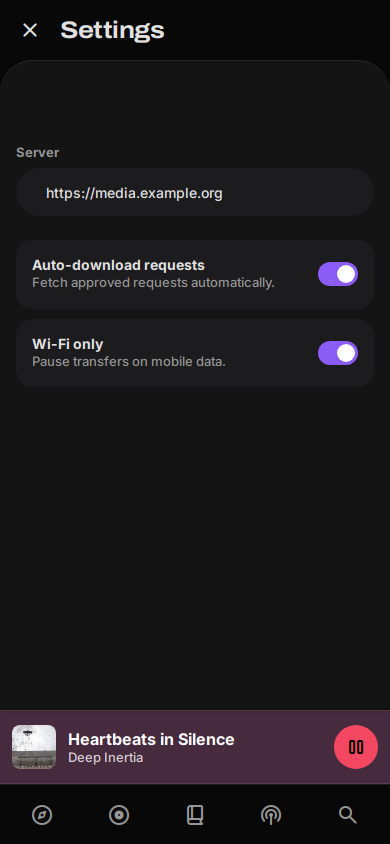
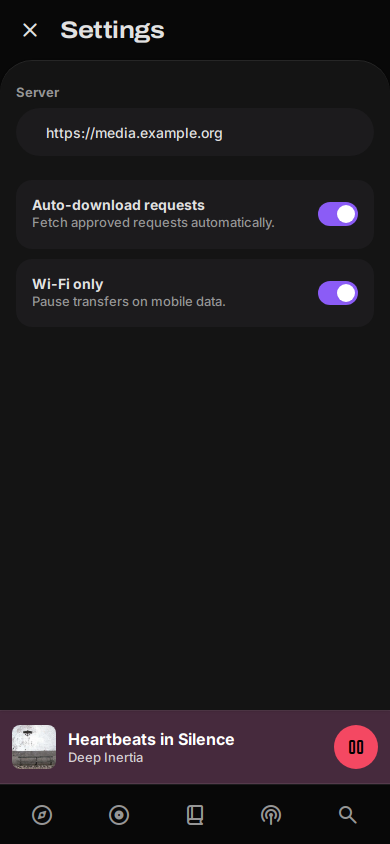
Take Browse's filter from the destinations and ship the canvas art
Browse's filter is now nav.json's: All, then Music, Podcasts and Books,
labelled as those destinations are and bound as `shell.filters.browse`, so it
cannot drift from them; a page may bind `shell.` values, checked like `data.`.
Settings loses its subheader, since it has no section titles to spy. The
canvas build copies every art file an artboard shows into `project/art/` and
points the artboard at it by relative path, and `web/public/art` joins the
canvas's recorded sources. The page hash covers the page's own nav.json entry,
and both comparisons are redone.

Plan: M0.canvas

Claude-Session: https://claude.ai/code/session_013Mi6PDzaGubo3sD3DQbLBz

diff --git a/design-codegen/src/canvas.ts b/design-codegen/src/canvas.ts
@@ -8,7 +8,8 @@
  * Each artboard is the page in the app shell at the layout its width gets. The page's content is
  * markup, mounted element by element. A prop that takes an element (the shell's rail, back layer,
  * player and panel, a page's filter row and subheader) has no markup form in the format, so those
- * trees travel as data and `renderVals()` builds them from the same Sonora components.
+ * trees travel as data and `renderVals()` builds them from the same Sonora components. The art
+ * they show ships beside them under `project/art/` (`canvasArt`), referenced by relative path.
  */
 import type { App } from './app.js';
 import type { PageTree, PropValue } from './page.js';
@@ -44,6 +45,30 @@ export interface SonoraInstall {
   title: string;
   artifact: string;
   version: string | null;
+}
+
+/**
+ * Placeholder art: served from the web app's root as `/art/<file>`, and shipped beside the
+ * artboards as `project/art/<file>`, so the published canvas shows it too. `web/public/art` holds it.
+ */
+export const ART_DIR = 'web/public/art';
+const ART = /^\/art\/([^/]+)$/;
+
+/** `value` with every `/art/<file>` in it made relative to the project, `art/<file>`. */
+const relativeArt = <T>(value: T): T =>
+  JSON.parse(JSON.stringify(value), (_key, v: unknown) =>
+    typeof v === 'string' && ART.test(v) ? v.slice(1) : v,
+  ) as T;
+
+/** The art files the drawn pages' artboards show, from their pages, placeholders and the shell. */
+export function canvasArt(app: App): string[] {
+  const files = new Set<string>();
+  JSON.stringify([shellData(app.nav, app.shell), app.pages], (_key, v: unknown) => {
+    const file = typeof v === 'string' ? ART.exec(v)?.[1] : undefined;
+    if (file !== undefined) files.add(file);
+    return v;
+  });
+  return [...files].sort();
 }
 
 const escapeAttr = (s: string) =>
@@ -160,7 +185,7 @@ function artboard(
   const slot = (tree: PageTree | undefined): PropValue | undefined =>
     tree === undefined ? undefined : { kind: 'slot', tree };
   const tree = withPlatform(
-    framed(framePage(page.tree), entry.title, {
+    framed(framePage(relativeArt(page.tree)), entry.title, {
       rail: slot(parts.rail),
       leading: slot(parts.leading),
       player: slot(parts.player),
@@ -197,8 +222,8 @@ function artboard(
     `<script type="text/x-dc" data-dc-script data-props='${preview}'>`,
     'class Component extends DCLogic {',
     'renderVals() {',
-    `const data = ${json(page.placeholder)};`,
-    `const shell = ${json(shellData(app.nav, app.shell))};`,
+    `const data = ${json(relativeArt(page.placeholder))};`,
+    `const shell = ${json(relativeArt(shellData(app.nav, app.shell)))};`,
     `const trees = ${json(slots.map(bare))};`,
     BUILD,
     'const scope = { data, shell };',

diff --git a/design-codegen/src/app.ts b/design-codegen/src/app.ts
@@ -9,7 +9,7 @@ import { componentName, generatePlatform, generateRoutes, readNav, type Nav } fr
 import { checkPage, parsePage, type PageTree } from './page.js';
 import { generateWebPage, type WebComponents } from './page-web.js';
 import type { KType, PropsModel } from './props.js';
-import { framePage, readShell, type ShellFile } from './shell.js';
+import { framePage, readShell, shellData, type ShellData, type ShellFile } from './shell.js';
 
 const Placeholder = z.record(z.string(), z.unknown());
 
@@ -70,6 +70,16 @@ export function readApp(appDir: string, model: PropsModel): App {
     const id = /^([a-z][A-Za-z0-9]*)\.page\.jsx$/.exec(file)?.[1];
     if (id === undefined || !ids.has(id)) errors.push(`pages/${file}: not a page in nav.json`);
   }
+  let shell: ShellFile | undefined;
+  let shown: ShellData | undefined;
+  try {
+    shell = readShell(appDir);
+    const strays = shell.railFoot.filter(({ page }) => !ids.has(page));
+    for (const { page } of strays) errors.push(`shell.json: railFoot names ${page}, not a page`);
+    if (strays.length === 0) shown = shellData(nav, shell);
+  } catch (e) {
+    errors.push(`shell.json: ${(e as Error).message}`);
+  }
   const pages: AppPage[] = [];
   for (const { id } of nav.pages) {
     const file = join(pagesDir, `${id}.page.jsx`);
@@ -80,22 +90,15 @@ export function readApp(appDir: string, model: PropsModel): App {
         JSON.parse(readFileSync(join(appDir, 'placeholders', `${id}.json`), 'utf8')),
       );
       errors.push(
-        ...checkPage(tree, placeholder, props, slots).map((e) => `pages/${id}.page.jsx ${e}`),
+        ...checkPage(tree, placeholder, props, slots, shown).map(
+          (e) => `pages/${id}.page.jsx ${e}`,
+        ),
       );
       framePage(tree);
       pages.push({ id, tree, placeholder });
     } catch (e) {
       errors.push(`pages/${id}.page.jsx: ${(e as Error).message}`);
     }
-  }
-  let shell: ShellFile | undefined;
-  try {
-    shell = readShell(appDir);
-    for (const { page } of shell.railFoot) {
-      if (!ids.has(page)) errors.push(`shell.json: railFoot names ${page}, not a page`);
-    }
-  } catch (e) {
-    errors.push(`shell.json: ${(e as Error).message}`);
   }
   if (errors.length > 0 || shell === undefined) {
     throw new Error(`design/app:\n  ${errors.join('\n  ')}`);

diff --git a/design-codegen/src/page.ts b/design-codegen/src/page.ts
@@ -167,28 +167,36 @@ function resolve(value: Json, path: string[]): Json {
 
 /**
  * The problems in a page tree, empty when there are none: every binding must resolve in the
- * placeholder (inside `<Each>`, in each item), and every component and prop must be Sonora's.
- * `props` maps each component to the prop names its `.d.ts` declares, `slots` to those of them
- * that take an element; without `slots`, any declared prop may take one.
+ * placeholder (inside `<Each>`, in each item) or, as `shell.…`, in what the shell shows, and every
+ * component and prop must be Sonora's. `props` maps each component to the prop names its `.d.ts`
+ * declares, `slots` to those of them that take an element; without `slots`, any declared prop may
+ * take one.
  */
 export function checkPage(
   tree: PageTree,
   placeholder: Json,
   props: Map<string, Set<string>>,
   slots?: Map<string, Set<string>>,
+  shell?: Json,
 ): string[] {
   const errors: string[] = [];
   const walk = (node: PageTree, scope: Map<string, Json[]>) => {
     const check = (line: number, path: string[]): Json[] => {
       const [root, ...rest] = path;
-      const values = root === 'data' ? [placeholder] : scope.get(root ?? '');
+      const values =
+        root === 'data'
+          ? [placeholder]
+          : root === 'shell' && shell !== undefined
+            ? [shell]
+            : scope.get(root ?? '');
       if (values === undefined) {
-        errors.push(`line ${line}: ${root} is neither data nor an Each item`);
+        errors.push(`line ${line}: ${root} is neither data, the shell nor an Each item`);
         return [];
       }
       const found = values.map((v) => resolve(v, rest));
       if (found.some((v) => v === undefined)) {
-        errors.push(`line ${line}: ${path.join('.')} is not in the placeholder`);
+        const where = root === 'shell' ? 'the shell' : 'the placeholder';
+        errors.push(`line ${line}: ${path.join('.')} is not in ${where}`);
         return [];
       }
       return found;

diff --git a/design-codegen/src/compare.ts b/design-codegen/src/compare.ts
@@ -63,12 +63,20 @@ function drawn(tree: PageTree, into: Set<string>): Set<string> {
 
 /**
  * sha256 of the page file, its placeholder, the shell it sits in (shell.json, nav.json's
- * destinations and layouts) and the source of every Sonora component it and the shell draw with,
+ * destinations and layouts, and what the shell draws from the page's own entry: its title, close,
+ * lights and filter) and the source of every Sonora component it and the shell draw with,
  * directly or through their lookups, so a change to any of them asks for a fresh look.
  */
 export function pageHash(appDir: string, sonoraDir: string, id: string): string {
   const page = readFileSync(join(appDir, 'pages', `${id}.page.jsx`), 'utf8');
-  const { destinations, layouts } = readNav(appDir);
+  const { destinations, layouts, pages } = readNav(appDir);
+  const entry = pages.find((p) => p.id === id);
+  const drawnFrom = entry && {
+    title: entry.title,
+    close: entry.close,
+    lights: entry.lights,
+    filter: entry.filter,
+  };
   const hash = createHash('sha256')
     .update(page)
     .update('\0')
@@ -76,7 +84,7 @@ export function pageHash(appDir: string, sonoraDir: string, id: string): string 
     .update('\0')
     .update(readFileSync(join(appDir, 'shell.json')))
     .update('\0')
-    .update(JSON.stringify({ destinations, layouts }));
+    .update(JSON.stringify({ destinations, layouts, page: drawnFrom }));
   const names = [...drawn(parsePage(page, id), new Set()), ...SHELL_COMPONENTS];
   for (const name of usedComponents(sonoraDir, names)) {
     hash.update(`\0${name}\0`).update(readFileSync(componentFile(sonoraDir, name)!));

diff --git a/design-codegen/src/shell.ts b/design-codegen/src/shell.ts
@@ -70,7 +70,10 @@ interface NavItem {
   icon: string;
 }
 
-/** What the shell's trees bind to as `shell.…`: shell.json plus each layout's destinations, in its order. */
+/**
+ * What the shell's trees bind to as `shell.…`: shell.json plus each layout's destinations, in its
+ * order, and each page's filter. A page may bind it too, for what it shows from nav.json.
+ */
 export interface ShellData {
   account: ShellFile['account'];
   playing: ShellFile['playing'];
@@ -80,6 +83,8 @@ export interface ShellData {
   footer: NavItem[];
   /** Each layout's destinations, by layout id. */
   nav: Record<string, NavItem[]>;
+  /** Each filtered page's choices, by page id: its `all`, then its destinations' labels. */
+  filters: Record<string, string[]>;
 }
 
 export function shellData(nav: Nav, shell: ShellFile): ShellData {
@@ -101,6 +106,13 @@ export function shellData(nav: Nav, shell: ShellFile): ShellData {
       return { key: p.id, label: p.title, icon };
     }),
     nav: Object.fromEntries(nav.layouts.map((l) => [layoutId(l), l.order.map(item)])),
+    filters: Object.fromEntries(
+      nav.pages.flatMap(({ id, filter }) =>
+        filter === undefined
+          ? []
+          : [[id, [filter.all, ...filter.narrows.map((d) => item(d).label)]]],
+      ),
+    ),
   };
 }
 

diff --git a/design-codegen/src/nav.ts b/design-codegen/src/nav.ts
@@ -70,6 +70,12 @@ const Structure = z
   })
   .strict();
 
+/**
+ * A page's filter, a single choice on its back layer: `all`, then the destinations it narrows to,
+ * in its order, each labelled as its destination is, so the filter cannot drift from them.
+ */
+const Filter = z.object({ all: z.string().min(1), narrows: z.array(Id).min(1) }).strict();
+
 const Page = z
   .object({
     id: Id,
@@ -97,6 +103,7 @@ const Page = z
       })
       .strict(),
     structure: Structure,
+    filter: Filter.optional(),
   })
   .strict();
 
@@ -147,6 +154,13 @@ export function parseNav(json: unknown): Nav {
     }
     if ((page.presentation === 'sheet') !== (page.close === 'sheet')) {
       errors.push(`${page.id}: a sheet, and only a sheet, closes as a sheet`);
+    }
+    const narrows = page.filter?.narrows ?? [];
+    if (new Set(narrows).size !== narrows.length)
+      errors.push(`${page.id}: its filter narrows to a destination twice`);
+    for (const id of narrows) {
+      if (!destinations.has(id))
+        errors.push(`${page.id}: its filter narrows to ${id}, which is not a destination`);
     }
     const links = page.structure.links;
     if (new Set(links).size !== links.length) errors.push(`${page.id}: links to a page twice`);

diff --git a/design-codegen/src/shell.test.ts b/design-codegen/src/shell.test.ts
@@ -11,6 +11,7 @@ import {
   shellData,
   type ShellFile,
 } from './shell.js';
+import { readFileSync } from 'node:fs';
 import { join } from 'node:path';
 
 const appDir = join(REPO_ROOT, APP_DIR);
@@ -126,6 +127,23 @@ describe('the app shell', () => {
       kind: 'literal',
       value: 'desktop',
     });
+  });
+});
+
+describe('a filter', () => {
+  it('[M0.canvas] gives Browse the choice All, Music, Podcasts, Books, labelled by the destinations', () => {
+    expect(data.filters.browse).toEqual(['All', 'Music', 'Podcasts', 'Books']);
+    const labels = new Map(nav.destinations.map((d) => [d.id, d.label]));
+    expect(data.filters.browse!.slice(1)).toEqual(
+      pageOf('browse').filter!.narrows.map((id) => labels.get(id)),
+    );
+  });
+
+  it('[M0.canvas] is drawn on Browse from the destinations, never from the page’s own data', () => {
+    const source = readFileSync(join(appDir, 'pages', 'browse.page.jsx'), 'utf8');
+    const controls = el(framePage(parsePage(source, 'browse')).controls, 'ButtonGroup');
+    expect(pathOf(controls.props.items)).toBe('shell.filters.browse');
+    expect(controls.props.value).toEqual({ kind: 'literal', value: pageOf('browse').filter!.all });
   });
 });
 

diff --git a/design-codegen/src/canvas.test.ts b/design-codegen/src/canvas.test.ts
@@ -4,6 +4,7 @@ import {
   CANVAS_BOARDS,
   CANVAS_CREATED_AT,
   DS_FOLDER,
+  canvasArt,
   generateCanvas,
   type SonoraInstall,
 } from './canvas.js';
@@ -176,6 +177,24 @@ describe('the canvas generated from design/app', () => {
         },
       ],
     });
+  });
+
+  it('points every artboard at the art it ships beside itself, by relative path', () => {
+    const [first, ...rest] = app.pages;
+    const withArt: App = {
+      ...app,
+      shell: { ...app.shell, playing: { ...app.shell.playing!, image: '/art/tidal-lines.jpg' } },
+      pages: [
+        { ...first!, placeholder: { ...first!.placeholder, cover: '/art/wind-and-truth.jpg' } },
+        ...rest,
+      ],
+    };
+    const html = generateCanvas(withArt, install, now).get('book.phone.dc.html') ?? '';
+    expect(html).toContain('"cover":"art/wind-and-truth.jpg"');
+    expect(html).toContain('"image":"art/tidal-lines.jpg"');
+    expect(html).not.toContain('"/art/');
+    expect(canvasArt(withArt)).toEqual(['tidal-lines.jpg', 'wind-and-truth.jpg']);
+    expect(canvasArt(app)).toEqual([]);
   });
 
   it('loads the installed Sonora copy right after the support line', () => {

diff --git a/design-codegen/src/compare.test.ts b/design-codegen/src/compare.test.ts
@@ -108,6 +108,25 @@ describe('checking a comparison', () => {
     ]);
   });
 
+  for (const [what, change] of [
+    ['its title', (page: Record<string, unknown>) => ({ ...page, title: 'Preferences' })],
+    [
+      'its filter',
+      (page: Record<string, unknown>) => ({ ...page, filter: { all: 'All', narrows: ['music'] } }),
+    ],
+  ] as const) {
+    it(`[M0.canvas/e] fails once ${what} in nav.json, which the shell draws, has changed since its comparison was made`, () => {
+      const app = copy();
+      const file = join(app, 'nav.json');
+      const json = JSON.parse(readFileSync(file, 'utf8')) as { pages: Record<string, unknown>[] };
+      json.pages = json.pages.map((p) => (p.id === 'settings' ? change(p) : p));
+      writeFileSync(file, JSON.stringify(json));
+      expect(checkComparison(app, sonora(), settings)).toEqual([
+        'settings: the page changed since compare/settings.md was made; look again',
+      ]);
+    });
+  }
+
   for (const [component, why] of [
     ['PageBody', 'a component the page draws'],
     ['SectionHeader', 'a component one the page draws looks up'],

diff --git a/design-codegen/src/page.test.ts b/design-codegen/src/page.test.ts
@@ -187,6 +187,15 @@ describe('checking a page', () => {
     ]);
   });
 
+  it('resolves a shell binding in what the shell shows, and names one it does not hold', () => {
+    const shell = { filters: { book: ['All', 'Books'] } };
+    const row = (path: string) => tree(`<EpisodeRow title={${path}} />`);
+    expect(checkPage(row('shell.filters.book'), data, props, undefined, shell)).toEqual([]);
+    expect(checkPage(row('shell.filters.album'), data, props, undefined, shell)).toEqual([
+      'line 3: shell.filters.album is not in the shell',
+    ]);
+  });
+
   it('names children given to a component that takes none', () => {
     expect(checkPage(tree('<EpisodeRow>Hi</EpisodeRow>'), data, props)).toEqual([
       'line 3: EpisodeRow takes no children',

diff --git a/design-codegen/src/nav.test.ts b/design-codegen/src/nav.test.ts
@@ -74,6 +74,13 @@ describe('nav.json', () => {
     expect(() => parseNav(small([page({ lights: 'books' })]))).toThrow(/album.*books/);
   });
 
+  it('refuses a filter that narrows to something not a destination, or to one twice', () => {
+    const filtered = (narrows: string[]) => page({ filter: { all: 'All', narrows } });
+    expect(() => parseNav(small([filtered(['books'])]))).toThrow(/album.*filter.*books/);
+    expect(() => parseNav(small([filtered(['music', 'music'])]))).toThrow(/album.*filter.*twice/);
+    expect(parseNav(small([filtered(['music'])])).pages[0]!.filter?.narrows).toEqual(['music']);
+  });
+
   it('refuses two pages with one id', () => {
     expect(() => parseNav(small([page(), page()]))).toThrow(/album.*twice/);
   });

diff --git a/design/app/pages/browse.page.jsx b/design/app/pages/browse.page.jsx
@@ -1,7 +1,11 @@
 export default function Browse({ data }) {
   return (
     <BackdropShell
-      back={<BackLayer controls={<ButtonGroup tone="play" items={data.filters} value="All" />} />}
+      back={
+        <BackLayer
+          controls={<ButtonGroup tone="play" items={shell.filters.browse} value="All" />}
+        />
+      }
       subheader={<FrontLayerHeader spy sections={data.sections} />}
     >
       <PageBody>
